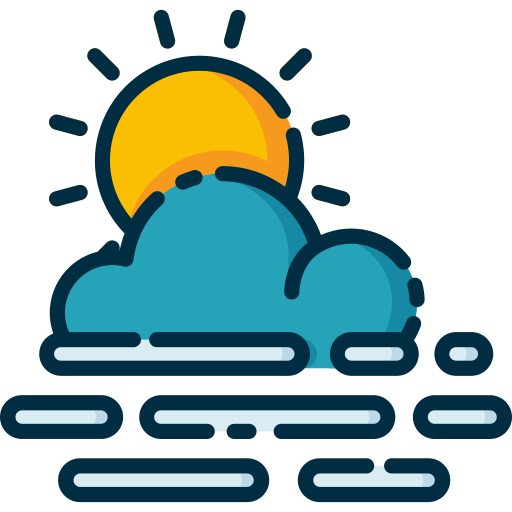
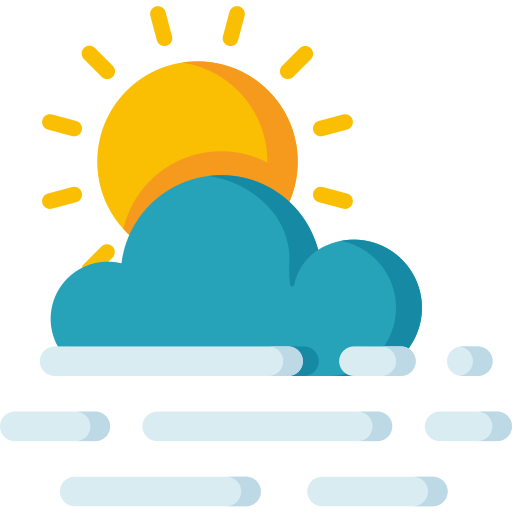
full

Changed region(s): [[0.0, 0.0, 1.0, 1.0]]

diff --git a/Weather_app.html b/Weather_app.html
@@ -123,7 +123,7 @@
     }
     #result h1 {
       font-size: 4em;
-      margin: 0.3em 0 0.7em 0;
+      margin: 0.7em 0 0.7em 0;
       line-height: 0;
       font-weight: 400;
       color: var(--white);
